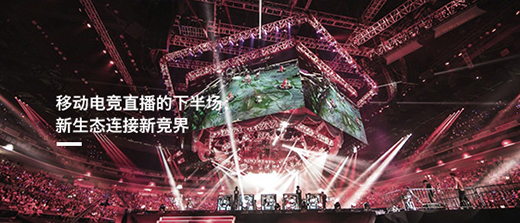
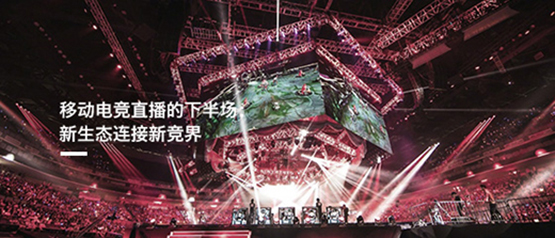
zhubobook

diff --git a/public/css/style.min.css b/public/css/style.min.css
@@ -2,4 +2,4 @@
  * authors: chenfx (since1991_vip@163.com)
  * date:    2017-11-18 18:18:18
  * version: v1.0.0
- */html,button,input,select,textarea{color:#000}body{background:#fff}:link,:visited{color:#ff4a00;text-decoration:none}a:hover,a:active{text-decoration:underline}::-moz-selection{background:#b3d4fc;text-shadow:none}::selection{background:#b3d4fc;text-shadow:none}hr{display:block;height:1px;border:0;border-top:1px solid #ccc;margin:1em 0;padding:0}article,aside,details,figcaption,figure,footer,header,hgroup,main,nav,section,summary{display:block}audio,canvas,video{display:inline-block;*display:inline;*zoom:1}audio:not([controls]){display:none;height:0}[hidden]{display:none}html{font-size:100%;-ms-text-size-adjust:100%;-webkit-text-size-adjust:100%}html,button,input,select,textarea{font-family:sans-serif}body{margin:0}a:focus{outline:thin dotted}a:active,a:hover{outline:0}h1{font-size:2em;margin:0.67em 0}h2{font-size:1.5em;margin:0.83em 0}h3{font-size:1.17em;margin:1em 0}h4{font-size:1em;margin:1.33em 0}h5{font-size:0.83em;margin:1.67em 0}h6{font-size:0.67em;margin:2.33em 0}abbr[title]{border-bottom:1px dotted}b,strong{font-weight:bold}blockquote{margin:1em 40px}dfn{font-style:italic}hr{-webkit-box-sizing:content-box;box-sizing:content-box;height:0}mark{background:#ff0;color:#000}p,pre{margin:1em 0}code,kbd,pre,samp{font-family:monospace, serif;_font-family:'courier new', monospace;font-size:1em}pre{white-space:pre;white-space:pre-wrap;word-wrap:break-word}q{quotes:none}q:before,q:after{content:'';content:none}small{font-size:80%}sub,sup{font-size:75%;line-height:0;position:relative;vertical-align:baseline}sup{top:-0.5em}sub{bottom:-0.25em}dl,menu,ol,ul{margin:1em 0}dd{margin:0 0 0 40px}menu,ol,ul{padding:0 0 0 40px}nav ul,nav ol{list-style:none;list-style-image:none}img{border:0;-ms-interpolation-mode:bicubic}svg:not(:root){overflow:hidden;_zoom:1}figure{margin:0}form{margin:0}fieldset{border:1px solid #c0c0c0;margin:0 2px;padding:0.35em 0.625em 0.75em}legend{border:0;padding:0;white-space:normal;*margin-left:-7px}button,input,select,textarea{font-size:100%;margin:0;vertical-align:baseline;*vertical-align:middle}button,input{line-height:normal}button,select{text-transform:none}button,html input[type="button"],input[type="reset"],input[type="submit"]{-webkit-appearance:button;cursor:pointer;*overflow:visible}button[disabled],html input[disabled]{cursor:default}input[type="checkbox"],input[type="radio"]{-webkit-box-sizing:border-box;box-sizing:border-box;padding:0;*height:13px;*width:13px}input[type="search"]{-webkit-appearance:textfield;-webkit-box-sizing:content-box;box-sizing:content-box}input[type="search"]::-webkit-search-cancel-button,input[type="search"]::-webkit-search-decoration{-webkit-appearance:none}button::-moz-focus-inner,input::-moz-focus-inner{border:0;padding:0}textarea{overflow:auto;vertical-align:top}table{border-collapse:collapse;border-spacing:0}article,aside,details,figcaption,figure,footer,header,hgroup,main,nav,section,summary{display:block}audio,canvas,video{display:inline-block;*display:inline;*zoom:1}audio:not([controls]){display:none;height:0}[hidden]{display:none}html{font-size:100%;-ms-text-size-adjust:100%;-webkit-text-size-adjust:100%}html,button,input,select,textarea{font-family:sans-serif}body{margin:0}a:focus{outline:thin dotted}a:active,a:hover{outline:0}h1{font-size:2em;margin:0.67em 0}h2{font-size:1.5em;margin:0.83em 0}h3{font-size:1.17em;margin:1em 0}h4{font-size:1em;margin:1.33em 0}h5{font-size:0.83em;margin:1.67em 0}h6{font-size:0.67em;margin:2.33em 0}abbr[title]{border-bottom:1px dotted}b,strong{font-weight:bold}blockquote{margin:1em 40px}dfn{font-style:italic}hr{-webkit-box-sizing:content-box;box-sizing:content-box;height:0}mark{background:#ff0;color:#000}p,pre{margin:1em 0}code,kbd,pre,samp{font-family:monospace, serif;_font-family:'courier new', monospace;font-size:1em}pre{white-space:pre;white-space:pre-wrap;word-wrap:break-word}q{quotes:none}q:before,q:after{content:'';content:none}small{font-size:80%}sub,sup{font-size:75%;line-height:0;position:relative;vertical-align:baseline}sup{top:-0.5em}sub{bottom:-0.25em}dl,menu,ol,ul{margin:1em 0}dd{margin:0 0 0 40px}menu,ol,ul{padding:0 0 0 40px}nav ul,nav ol{list-style:none;list-style-image:none}img{border:0;-ms-interpolation-mode:bicubic}svg:not(:root){overflow:hidden;_zoom:1}figure{margin:0}form{margin:0}fieldset{border:1px solid #c0c0c0;margin:0 2px;padding:0.35em 0.625em 0.75em}legend{border:0;padding:0;white-space:normal;*margin-left:-7px}button,input,select,textarea{font-size:100%;margin:0;vertical-align:baseline;*vertical-align:middle}button,input{line-height:normal}button,select{text-transform:none}button,html input[type="button"],input[type="reset"],input[type="submit"]{-webkit-appearance:button;cursor:pointer;*overflow:visible}button[disabled],html input[disabled]{cursor:default}input[type="checkbox"],input[type="radio"]{-webkit-box-sizing:border-box;box-sizing:border-box;padding:0;*height:13px;*width:13px}input[type="search"]{-webkit-appearance:textfield;-webkit-box-sizing:content-box;box-sizing:content-box}input[type="search"]::-webkit-search-cancel-button,input[type="search"]::-webkit-search-decoration{-webkit-appearance:none}button::-moz-focus-inner,input::-moz-focus-inner{border:0;padding:0}textarea{overflow:auto;vertical-align:top}table{border-collapse:collapse;border-spacing:0}img{vertical-align:middle}textarea{resize:vertical}.ir{background-color:transparent;border:0;text-align:left;text-indent:-9999px;overflow:hidden;_zoom:1}.hide,.hidden{display:none}.clearfix:before,.clearfix:after{content:" ";display:table}.clearfix:after{clear:both}.clearfix{*zoom:1}.fade{opacity:0;filter:alpha(opacity=0)\9;-webkit-transition:opacity .15s linear;transition:opacity .15s linear}.fade.in{opacity:1;filter:alpha(opacity=100)\9}.modal-backdrop{position:fixed !important;_position:absolute;top:0;right:0;bottom:0;left:0;z-index:100;background-color:#000}.modal-backdrop.fade{opacity:0;filter:alpha(opacity=0)\9}.modal-backdrop,.modal-backdrop.fade.in{opacity:0.5;filter:alpha(opacity=50)\9}.modal{position:fixed !important;top:50%;left:50%;_position:absolute;_top:15%;_margin-top:0;z-index:102;width:660px;margin-left:-330px;margin-top:-300px;background-color:#fff;outline:none}.modal.fade{-webkit-transition:opacity .4s linear, top .4s ease-out;transition:opacity .4s linear, top .4s ease-out;top:-25%}.modal.fade.in{top:50%;_top:15%}.modal .close{position:absolute;top:14px;right:14px;width:30px;height:30px;line-height:30px;text-align:center;color:#666;cursor:pointer;-webkit-transition:all .2s;transition:all .2s;z-index:10;border-radius:15px}.modal .close:hover{color:#fff}.modal .close .iconfont{font-size:24px;font-weight:200;vertical-align:middle}.modal-hide{display:none}.modal-header,.modal-hd{position:relative;height:32px;padding:14px 20px;background-color:#ccc}.modal-header h3,.modal-header .title,.modal-hd h3,.modal-hd .title{margin:0;font-size:18px;font-weight:400;line-height:32px;color:#333}.modal-body,.modal-bd{position:relative;max-height:400px;padding:40px 60px}.modal-footer,.modal-ft{height:40px;padding:20px 0;border-top:1px solid #eee;text-align:center;background-color:#fff}.modal-footer .btn,.modal-ft .btn{margin:0 7px}.modal-alert{width:500px;margin-left:-250px}.modal-alert .modal-bd{padding:60px 60px 40px;text-align:center}.modal-alert .text{min-height:130px}.modal-alert h3,.modal-alert .title{margin:0;font-size:30px;font-weight:400;line-height:50px;color:#333}.modal-alert p{margin:0;font-size:18px;line-height:30px;color:#666}.modal-alert .actions .btn{margin:0 7px}*{-webkit-box-sizing:border-box;box-sizing:border-box}body{font:14px/1.5 "Helvetica Neue", Helvetica, Arial, "Microsoft Yahei", "Hiragino Sans GB", "Heiti SC", "WenQuanYi Micro Hei", sans-serif;color:#333;min-width:1170px;background:#f5f4f8;-webkit-font-smoothing:antialiased}.container{position:relative;width:1170px;margin:0 auto}.container:before{content:"";display:table}.container:after{clear:both}.container:before,.container:after{content:"";display:table}em,i{font-style:normal}li{list-style:none}img{border:0}a:hover{text-decoration:none}a:focus{outline:none}body,div,dl,dt,dd,ul,ol,li,h1,h2,h3,h4,h5,h6,pre,form,fieldset,input,textarea,p,blockquote,th,td{margin:0;padding:0}.sec-header{height:70px;background:#fff}.sec-header .header-logo{float:left;width:136px;height:35px;margin-top:17.5px}.sec-header .header-logo a{display:block;color:#333}.sec-header .header-nav{float:right}.sec-header .header-nav ul{padding:0 20px}.sec-header .header-nav li{position:relative;display:inline-block;*zoom:1;*display:inline;line-height:70px;vertical-align:middle;padding:0 20px}.sec-header .header-nav li a{color:#333;display:block}.sec-banner{height:500px;overflow:hidden;_zoom:1}.sec-banner .banner-container{text-align:center}.sec-banner .banner .banner-lf{position:absolute;top:76px;left:75px;text-align:left}.sec-banner .banner .banner-lf .date{font-size:48px;color:#f84b9c;font-weight:bold;text-align:left}.sec-banner .banner .banner-lf .month{font-size:24px;color:#fff;font-weight:bold;text-align:left}.sec-banner .banner .banner-lf .month em{display:inline-block;*zoom:1;*display:inline;width:12px;height:4px;background:#fff;text-align:left;font-weight:bold;vertical-align:middle;margin-left:15px}.sec-banner .banner .banner-lf .desc{margin-top:50px;font-size:16px;color:#fff}.sec-banner .banner .banner-lf .btn-primary{display:block;width:100px;height:38px;line-height:38px;padding:0 18px;margin-top:60px;color:#fff;white-space:nowrap;text-align:center;font-size:14px;border:none;border-radius:3px;cursor:pointer;background:#f84b9c;-webkit-box-shadow:0px 0px 13px rgba(248,75,156,0.3);box-shadow:0px 0px 13px rgba(248,75,156,0.3);-webkit-transition:all 0.4s cubic-bezier(0.215, 0.61, 0.355, 1) 0s;transition:all 0.4s cubic-bezier(0.215, 0.61, 0.355, 1) 0s}.sec-banner .banner .banner-lf .btn-primary:hover{background:#009688}.sec-banner .banner .banner-fr{position:absolute;top:140px;right:155px;text-align:right}.sec-banner .banner .banner-fr .name{font-size:60px;color:#fff}.sec-banner .banner .banner-fr .platform{font-size:16px;margin-top:5px;color:#fff}.sec-banner .banner .banner-fr .line{width:28px;height:7px;background:#fff;margin-top:20px;position:absolute;right:0}.sec-banner .banner .banner-fr .platform-en{margin-top:50px;font-size:16px;font-weight:bold;color:#fff}.sec-banner .banner .banner-fr .live{font-size:16px;font-weight:bold;color:#fff}.sec-banner .banner-2{background:#c69ca7}.sec-banner .banner-1{background:#f5aebe}.sec-container{margin-top:30px}.sec-container .content{position:relative}.sec-container .content .con{float:left}.sec-container .content .con-left,.sec-container .content .con-right{width:305px}.sec-container .content .con-middle{width:520px;margin:0 20px}.sec-container .content .in-title{position:relative}.sec-container .content .in-title h4{font-weight:normal;font-size:16px;line-height:30px;color:#f84b9c}.sec-container .content .in-title .line{display:block;width:28px;height:1px;border-bottom:3px solid #f84b9c}.sec-container .content .con-menu{margin-top:20px}.sec-container .content .con-menu .menu-item{margin-bottom:15px}.sec-container .content .con-menu .module-card{position:relative;border-radius:3px;background:#fff;font-size:14px;padding:15px;line-height:18px;cursor:pointer;-webkit-transition:all 0.6s cubic-bezier(0.215, 0.61, 0.355, 1) 0s;transition:all 0.6s cubic-bezier(0.215, 0.61, 0.355, 1) 0s;-webkit-box-shadow:0px 0px 13px rgba(223,221,230,0.3);box-shadow:0px 0px 13px rgba(223,221,230,0.3)}.sec-container .content .con-menu .module-card a{color:#333;-webkit-transition:all 0.4s cubic-bezier(0.215, 0.61, 0.355, 1) 0s;transition:all 0.4s cubic-bezier(0.215, 0.61, 0.355, 1) 0s}.sec-container .content .con-menu .module-card:hover a{color:#f84b9c}.sec-container .content .con-middle .in-banner{height:223px}.sec-container .content .con-middle .in-tag{margin-top:10px}.sec-container .content .con-middle .in-tag .ul-tag{position:relative;height:40px;white-space:nowrap;-webkit-transition:all 0.2s;transition:all 0.2s}.sec-container .content .con-middle .in-tag .ul-tag li{float:left;vertical-align:middle;font-size:14px;-webkit-transition:all 0.2s;transition:all 0.2s;position:relative;line-height:40px;min-width:65px;padding:0 15px;text-align:center;cursor:pointer;color:#797979}.sec-container .content .con-middle .in-tag .ul-tag li.tag-this{color:#f84b9c}.sec-container .content .con-middle .in-tag .ul-tag .tag-this:after{position:absolute;left:0;top:0;content:'';width:100%;height:41px;pointer-events:none;-webkit-box-sizing:border-box;box-sizing:border-box;border:none;border-radius:0;border-bottom:2px solid #f84b9c}.sec-container .content .con-middle .tag-content{margin:10px 0}.sec-container .content .con-middle .tag-content .tag-item{display:none}.sec-container .content .con-middle .tag-content .tag-show{display:block}.sec-container .content .con-middle .tag-content .ul-con{margin-top:10px}.sec-container .content .con-middle .tag-content .ul-con li{margin-bottom:15px;background:#fff}.sec-container .content .con-middle .tag-content .ul-con .module-card{position:relative;padding:15px;border-radius:3px;background:#fff;-webkit-transition:all 0.6s cubic-bezier(0.215, 0.61, 0.355, 1) 0s;transition:all 0.6s cubic-bezier(0.215, 0.61, 0.355, 1) 0s;-webkit-box-shadow:0px 0px 13px rgba(223,221,230,0.3);box-shadow:0px 0px 13px rgba(223,221,230,0.3)}.sec-container .content .con-middle .tag-content .ul-con h4{font-weight:normal}.sec-container .content .con-middle .tag-content .ul-con h4 a{color:#333;-webkit-transition:all 0.4s cubic-bezier(0.215, 0.61, 0.355, 1) 0s;transition:all 0.4s cubic-bezier(0.215, 0.61, 0.355, 1) 0s}.sec-container .content .con-middle .tag-content .ul-con h4 a:hover{color:#f84b9c}.sec-container .content .con-middle .tag-content .ul-con .in-news-list{margin-top:15px}.sec-container .content .con-middle .tag-content .ul-con .news-img{display:inline-block;*zoom:1;*display:inline;width:200px;margin-right:10px;vertical-align:top}.sec-container .content .con-middle .tag-content .ul-con .news-img img{display:inline-block;*zoom:1;*display:inline}.sec-container .content .con-middle .tag-content .ul-con .news-con{display:inline-block;*zoom:1;*display:inline;position:relative;width:270px;height:110px;font-size:14px;color:#5e5c65;line-height:24px}.sec-container .content .con-middle .tag-content .ul-con .news-time{position:absolute;left:0;bottom:5px;font-size:12px;color:#979797;line-height:0}.sec-container .content .con-middle .tag-content .ul-con .news-time span{margin-right:10px}.sec-container .content .con-middle .tag-content .ul-con .btn-primary{position:absolute;right:0;bottom:5px;font-size:14px;color:#f84b9c;line-height:0;-webkit-transition:all 0.4s cubic-bezier(0.215, 0.61, 0.355, 1) 0s;transition:all 0.4s cubic-bezier(0.215, 0.61, 0.355, 1) 0s}.sec-container .content .con-middle .tag-content .ul-con .btn-primary:hover{color:#009688}
+ */html,button,input,select,textarea{color:#000}body{background:#fff}:link,:visited{color:#ff4a00;text-decoration:none}a:hover,a:active{text-decoration:underline}::-moz-selection{background:#b3d4fc;text-shadow:none}::selection{background:#b3d4fc;text-shadow:none}hr{display:block;height:1px;border:0;border-top:1px solid #ccc;margin:1em 0;padding:0}article,aside,details,figcaption,figure,footer,header,hgroup,main,nav,section,summary{display:block}audio,canvas,video{display:inline-block;*display:inline;*zoom:1}audio:not([controls]){display:none;height:0}[hidden]{display:none}html{font-size:100%;-ms-text-size-adjust:100%;-webkit-text-size-adjust:100%}html,button,input,select,textarea{font-family:sans-serif}body{margin:0}a:focus{outline:thin dotted}a:active,a:hover{outline:0}h1{font-size:2em;margin:0.67em 0}h2{font-size:1.5em;margin:0.83em 0}h3{font-size:1.17em;margin:1em 0}h4{font-size:1em;margin:1.33em 0}h5{font-size:0.83em;margin:1.67em 0}h6{font-size:0.67em;margin:2.33em 0}abbr[title]{border-bottom:1px dotted}b,strong{font-weight:bold}blockquote{margin:1em 40px}dfn{font-style:italic}hr{-webkit-box-sizing:content-box;box-sizing:content-box;height:0}mark{background:#ff0;color:#000}p,pre{margin:1em 0}code,kbd,pre,samp{font-family:monospace, serif;_font-family:'courier new', monospace;font-size:1em}pre{white-space:pre;white-space:pre-wrap;word-wrap:break-word}q{quotes:none}q:before,q:after{content:'';content:none}small{font-size:80%}sub,sup{font-size:75%;line-height:0;position:relative;vertical-align:baseline}sup{top:-0.5em}sub{bottom:-0.25em}dl,menu,ol,ul{margin:1em 0}dd{margin:0 0 0 40px}menu,ol,ul{padding:0 0 0 40px}nav ul,nav ol{list-style:none;list-style-image:none}img{border:0;-ms-interpolation-mode:bicubic}svg:not(:root){overflow:hidden;_zoom:1}figure{margin:0}form{margin:0}fieldset{border:1px solid #c0c0c0;margin:0 2px;padding:0.35em 0.625em 0.75em}legend{border:0;padding:0;white-space:normal;*margin-left:-7px}button,input,select,textarea{font-size:100%;margin:0;vertical-align:baseline;*vertical-align:middle}button,input{line-height:normal}button,select{text-transform:none}button,html input[type="button"],input[type="reset"],input[type="submit"]{-webkit-appearance:button;cursor:pointer;*overflow:visible}button[disabled],html input[disabled]{cursor:default}input[type="checkbox"],input[type="radio"]{-webkit-box-sizing:border-box;box-sizing:border-box;padding:0;*height:13px;*width:13px}input[type="search"]{-webkit-appearance:textfield;-webkit-box-sizing:content-box;box-sizing:content-box}input[type="search"]::-webkit-search-cancel-button,input[type="search"]::-webkit-search-decoration{-webkit-appearance:none}button::-moz-focus-inner,input::-moz-focus-inner{border:0;padding:0}textarea{overflow:auto;vertical-align:top}table{border-collapse:collapse;border-spacing:0}article,aside,details,figcaption,figure,footer,header,hgroup,main,nav,section,summary{display:block}audio,canvas,video{display:inline-block;*display:inline;*zoom:1}audio:not([controls]){display:none;height:0}[hidden]{display:none}html{font-size:100%;-ms-text-size-adjust:100%;-webkit-text-size-adjust:100%}html,button,input,select,textarea{font-family:sans-serif}body{margin:0}a:focus{outline:thin dotted}a:active,a:hover{outline:0}h1{font-size:2em;margin:0.67em 0}h2{font-size:1.5em;margin:0.83em 0}h3{font-size:1.17em;margin:1em 0}h4{font-size:1em;margin:1.33em 0}h5{font-size:0.83em;margin:1.67em 0}h6{font-size:0.67em;margin:2.33em 0}abbr[title]{border-bottom:1px dotted}b,strong{font-weight:bold}blockquote{margin:1em 40px}dfn{font-style:italic}hr{-webkit-box-sizing:content-box;box-sizing:content-box;height:0}mark{background:#ff0;color:#000}p,pre{margin:1em 0}code,kbd,pre,samp{font-family:monospace, serif;_font-family:'courier new', monospace;font-size:1em}pre{white-space:pre;white-space:pre-wrap;word-wrap:break-word}q{quotes:none}q:before,q:after{content:'';content:none}small{font-size:80%}sub,sup{font-size:75%;line-height:0;position:relative;vertical-align:baseline}sup{top:-0.5em}sub{bottom:-0.25em}dl,menu,ol,ul{margin:1em 0}dd{margin:0 0 0 40px}menu,ol,ul{padding:0 0 0 40px}nav ul,nav ol{list-style:none;list-style-image:none}img{border:0;-ms-interpolation-mode:bicubic}svg:not(:root){overflow:hidden;_zoom:1}figure{margin:0}form{margin:0}fieldset{border:1px solid #c0c0c0;margin:0 2px;padding:0.35em 0.625em 0.75em}legend{border:0;padding:0;white-space:normal;*margin-left:-7px}button,input,select,textarea{font-size:100%;margin:0;vertical-align:baseline;*vertical-align:middle}button,input{line-height:normal}button,select{text-transform:none}button,html input[type="button"],input[type="reset"],input[type="submit"]{-webkit-appearance:button;cursor:pointer;*overflow:visible}button[disabled],html input[disabled]{cursor:default}input[type="checkbox"],input[type="radio"]{-webkit-box-sizing:border-box;box-sizing:border-box;padding:0;*height:13px;*width:13px}input[type="search"]{-webkit-appearance:textfield;-webkit-box-sizing:content-box;box-sizing:content-box}input[type="search"]::-webkit-search-cancel-button,input[type="search"]::-webkit-search-decoration{-webkit-appearance:none}button::-moz-focus-inner,input::-moz-focus-inner{border:0;padding:0}textarea{overflow:auto;vertical-align:top}table{border-collapse:collapse;border-spacing:0}img{vertical-align:middle}textarea{resize:vertical}.ir{background-color:transparent;border:0;text-align:left;text-indent:-9999px;overflow:hidden;_zoom:1}.hide,.hidden{display:none}.clearfix:before,.clearfix:after{content:" ";display:table}.clearfix:after{clear:both}.clearfix{*zoom:1}.fade{opacity:0;filter:alpha(opacity=0)\9;-webkit-transition:opacity .15s linear;transition:opacity .15s linear}.fade.in{opacity:1;filter:alpha(opacity=100)\9}.modal-backdrop{position:fixed !important;_position:absolute;top:0;right:0;bottom:0;left:0;z-index:100;background-color:#000}.modal-backdrop.fade{opacity:0;filter:alpha(opacity=0)\9}.modal-backdrop,.modal-backdrop.fade.in{opacity:0.5;filter:alpha(opacity=50)\9}.modal{position:fixed !important;top:50%;left:50%;_position:absolute;_top:15%;_margin-top:0;z-index:102;width:660px;margin-left:-330px;margin-top:-300px;background-color:#fff;outline:none}.modal.fade{-webkit-transition:opacity .4s linear, top .4s ease-out;transition:opacity .4s linear, top .4s ease-out;top:-25%}.modal.fade.in{top:50%;_top:15%}.modal .close{position:absolute;top:14px;right:14px;width:30px;height:30px;line-height:30px;text-align:center;color:#666;cursor:pointer;-webkit-transition:all .2s;transition:all .2s;z-index:10;border-radius:15px}.modal .close:hover{color:#fff}.modal .close .iconfont{font-size:24px;font-weight:200;vertical-align:middle}.modal-hide{display:none}.modal-header,.modal-hd{position:relative;height:32px;padding:14px 20px;background-color:#ccc}.modal-header h3,.modal-header .title,.modal-hd h3,.modal-hd .title{margin:0;font-size:18px;font-weight:400;line-height:32px;color:#333}.modal-body,.modal-bd{position:relative;max-height:400px;padding:40px 60px}.modal-footer,.modal-ft{height:40px;padding:20px 0;border-top:1px solid #eee;text-align:center;background-color:#fff}.modal-footer .btn,.modal-ft .btn{margin:0 7px}.modal-alert{width:500px;margin-left:-250px}.modal-alert .modal-bd{padding:60px 60px 40px;text-align:center}.modal-alert .text{min-height:130px}.modal-alert h3,.modal-alert .title{margin:0;font-size:30px;font-weight:400;line-height:50px;color:#333}.modal-alert p{margin:0;font-size:18px;line-height:30px;color:#666}.modal-alert .actions .btn{margin:0 7px}*{-webkit-box-sizing:border-box;box-sizing:border-box}body{font:14px/1.5 "Helvetica Neue", Helvetica, Arial, "Microsoft Yahei", "Hiragino Sans GB", "Heiti SC", "WenQuanYi Micro Hei", sans-serif;color:#333;min-width:1170px;background:#f5f4f8;-webkit-font-smoothing:antialiased}.container{position:relative;width:1170px;margin:0 auto}.container:before{content:"";display:table}.container:after{clear:both}.container:before,.container:after{content:"";display:table}em,i{font-style:normal}li{list-style:none}img{border:0}a:hover{text-decoration:none}a:focus{outline:none}body,div,dl,dt,dd,ul,ol,li,h1,h2,h3,h4,h5,h6,pre,form,fieldset,input,textarea,p,blockquote,th,td{margin:0;padding:0}.sec-header{height:70px;background:#fff}.sec-header .header-logo{float:left;width:136px;height:35px;margin-top:17.5px}.sec-header .header-logo a{display:block;color:#333}.sec-header .header-nav{float:right}.sec-header .header-nav ul{padding:0 20px}.sec-header .header-nav li{position:relative;display:inline-block;*zoom:1;*display:inline;line-height:70px;vertical-align:middle;padding:0 20px}.sec-header .header-nav li a{color:#333;display:block}.sec-banner{height:500px;overflow:hidden;_zoom:1}.sec-banner .banner-container{text-align:center}.sec-banner .banner .banner-lf{position:absolute;top:76px;left:75px;text-align:left}.sec-banner .banner .banner-lf .date{font-size:48px;color:#f84b9c;font-weight:bold;text-align:left}.sec-banner .banner .banner-lf .month{font-size:24px;color:#fff;font-weight:bold;text-align:left}.sec-banner .banner .banner-lf .month em{display:inline-block;*zoom:1;*display:inline;width:12px;height:4px;background:#fff;text-align:left;font-weight:bold;vertical-align:middle;margin-left:15px}.sec-banner .banner .banner-lf .desc{margin-top:50px;font-size:16px;color:#fff}.sec-banner .banner .banner-lf .btn-primary{display:block;width:100px;height:38px;line-height:38px;padding:0 18px;margin-top:60px;color:#fff;white-space:nowrap;text-align:center;font-size:14px;border:none;border-radius:3px;cursor:pointer;background:#f84b9c;-webkit-box-shadow:0px 0px 13px rgba(248,75,156,0.3);box-shadow:0px 0px 13px rgba(248,75,156,0.3);-webkit-transition:all 0.4s cubic-bezier(0.215, 0.61, 0.355, 1) 0s;transition:all 0.4s cubic-bezier(0.215, 0.61, 0.355, 1) 0s}.sec-banner .banner .banner-lf .btn-primary:hover{background:#009688}.sec-banner .banner .banner-fr{position:absolute;top:140px;right:155px;text-align:right}.sec-banner .banner .banner-fr .name{font-size:60px;color:#fff}.sec-banner .banner .banner-fr .platform{font-size:16px;margin-top:5px;color:#fff}.sec-banner .banner .banner-fr .line{width:28px;height:7px;background:#fff;margin-top:20px;position:absolute;right:0}.sec-banner .banner .banner-fr .platform-en{margin-top:50px;font-size:16px;font-weight:bold;color:#fff}.sec-banner .banner .banner-fr .live{font-size:16px;font-weight:bold;color:#fff}.sec-banner .banner-2{background:#c69ca7}.sec-banner .banner-1{background:#f5aebe}.sec-container{margin-top:30px}.sec-container .content{position:relative}.sec-container .content .con{float:left}.sec-container .content .con-left{width:305px}.sec-container .content .con-right{width:270px}.sec-container .content .con-middle{width:555px;margin:0 20px}.sec-container .content .in-title{position:relative}.sec-container .content .in-title h4{font-weight:normal;font-size:16px;line-height:30px;color:#f84b9c}.sec-container .content .in-title .line{display:block;width:28px;height:1px;border-bottom:3px solid #f84b9c}.sec-container .content .con-menu{margin-top:20px}.sec-container .content .con-menu .menu-item{margin-bottom:15px}.sec-container .content .con-menu .module-card{position:relative;border-radius:3px;background:#fff;font-size:14px;padding:15px;line-height:18px;cursor:pointer;-webkit-transition:all 0.6s cubic-bezier(0.215, 0.61, 0.355, 1) 0s;transition:all 0.6s cubic-bezier(0.215, 0.61, 0.355, 1) 0s;-webkit-box-shadow:0px 0px 13px rgba(223,221,230,0.3);box-shadow:0px 0px 13px rgba(223,221,230,0.3)}.sec-container .content .con-menu .module-card a{color:#333;-webkit-transition:all 0.4s cubic-bezier(0.215, 0.61, 0.355, 1) 0s;transition:all 0.4s cubic-bezier(0.215, 0.61, 0.355, 1) 0s}.sec-container .content .con-menu .module-card:hover a{color:#f84b9c}.sec-container .content .con-middle .in-banner{height:238px}.sec-container .content .con-middle .in-tag{margin-top:10px}.sec-container .content .con-middle .in-tag .ul-tag{position:relative;height:40px;white-space:nowrap;-webkit-transition:all 0.2s;transition:all 0.2s}.sec-container .content .con-middle .in-tag .ul-tag li{float:left;vertical-align:middle;font-size:14px;-webkit-transition:all 0.2s;transition:all 0.2s;position:relative;line-height:40px;min-width:65px;padding:0 15px;text-align:center;cursor:pointer;color:#797979}.sec-container .content .con-middle .in-tag .ul-tag li.tag-this{color:#f84b9c}.sec-container .content .con-middle .in-tag .ul-tag .tag-this:after{position:absolute;left:0;top:0;content:'';width:100%;height:41px;pointer-events:none;-webkit-box-sizing:border-box;box-sizing:border-box;border:none;border-radius:0;border-bottom:2px solid #f84b9c}.sec-container .content .con-middle .tag-content{margin:10px 0}.sec-container .content .con-middle .tag-content .tag-item{display:none}.sec-container .content .con-middle .tag-content .tag-show{display:block}.sec-container .content .con-middle .tag-content .ul-con{margin-top:10px}.sec-container .content .con-middle .tag-content .ul-con li{margin-bottom:15px;background:#fff}.sec-container .content .con-middle .tag-content .ul-con .module-card{position:relative;padding:15px;border-radius:3px;background:#fff;-webkit-transition:all 0.6s cubic-bezier(0.215, 0.61, 0.355, 1) 0s;transition:all 0.6s cubic-bezier(0.215, 0.61, 0.355, 1) 0s;-webkit-box-shadow:0px 0px 13px rgba(223,221,230,0.3);box-shadow:0px 0px 13px rgba(223,221,230,0.3)}.sec-container .content .con-middle .tag-content .ul-con h4{font-weight:normal}.sec-container .content .con-middle .tag-content .ul-con h4 a{color:#333;-webkit-transition:all 0.4s cubic-bezier(0.215, 0.61, 0.355, 1) 0s;transition:all 0.4s cubic-bezier(0.215, 0.61, 0.355, 1) 0s}.sec-container .content .con-middle .tag-content .ul-con h4 a:hover{color:#f84b9c}.sec-container .content .con-middle .tag-content .ul-con .in-news-list{margin-top:15px}.sec-container .content .con-middle .tag-content .ul-con .news-img{display:inline-block;*zoom:1;*display:inline;width:200px;margin-right:10px;vertical-align:top}.sec-container .content .con-middle .tag-content .ul-con .news-img img{display:inline-block;*zoom:1;*display:inline}.sec-container .content .con-middle .tag-content .ul-con .news-con{display:inline-block;*zoom:1;*display:inline;position:relative;width:270px;height:110px;font-size:14px;color:#5e5c65;line-height:24px}.sec-container .content .con-middle .tag-content .ul-con .news-con .desc{height:72px;display:-webkit-box;-webkit-box-orient:vertical;-webkit-line-clamp:3;overflow:hidden;_zoom:1}.sec-container .content .con-middle .tag-content .ul-con .news-time{position:absolute;left:0;bottom:5px;font-size:12px;color:#979797;line-height:0}.sec-container .content .con-middle .tag-content .ul-con .news-time span{margin-right:10px}.sec-container .content .con-middle .tag-content .ul-con .btn-primary{position:absolute;right:0;bottom:5px;font-size:14px;color:#f84b9c;line-height:0;-webkit-transition:all 0.4s cubic-bezier(0.215, 0.61, 0.355, 1) 0s;transition:all 0.4s cubic-bezier(0.215, 0.61, 0.355, 1) 0s}.sec-container .content .con-middle .tag-content .ul-con .btn-primary:hover{color:#009688}.sec-container .content .con-right{overflow:hidden;_zoom:1}.sec-container .content .con-right .in-menu{margin-bottom:20px}.sec-container .content .con-right .in-btn-group{width:100%;display:inline-block;*zoom:1;*display:inline;vertical-align:middle;font-size:0}.sec-container .content .con-right .in-btn-group .zb-btn{display:inline-block;*zoom:1;*display:inline;width:50%;height:38px;line-height:38px;text-align:center;font-size:12px;color:#fff;background:#f84b9c;border-radius:0 2px 2px 0;border-left:1px solid rgba(255,255,255,0.5);-webkit-transition:all 0.4s cubic-bezier(0.215, 0.61, 0.355, 1) 0s;transition:all 0.4s cubic-bezier(0.215, 0.61, 0.355, 1) 0s;-webkit-box-shadow:0px 0px 13px rgba(248,75,156,0.3);box-shadow:0px 0px 13px rgba(248,75,156,0.3)}.sec-container .content .con-right .in-btn-group .zb-btn:first-child{border-left:none;border-radius:2px 0 0 2px}.sec-container .content .con-right .in-btn-group .zb-btn:hover{background:#009688}.sec-container .content .con-right .in-title{position:relative}.sec-container .content .con-right .in-title h4{font-weight:normal;font-size:16px;line-height:30px;color:#f84b9c}.sec-container .content .con-right .in-title .line{display:block;width:28px;height:1px;border-bottom:3px solid #f84b9c}.sec-container .content .con-right .in-interview{margin-top:20px;width:100%}.sec-container .content .con-right .in-interview a{display:block}.sec-container .content .con-right .in-interview-con{margin:20px 0;font-size:14px;line-height:24px}.sec-container .content .con-right .in-promo-list .in-avding{text-align:center;margin-bottom:20px}

diff --git a/views/index.html b/views/index.html
@@ -8,7 +8,7 @@
     <meta name="description" content="主播百科是一部为喜欢看直播和喜欢做主播的用户所提供的百科全书，旨在创造一个国内互联网内最专业的主播平台。">
     <meta name="keywords" content="主播百科,网络,斗鱼,熊猫,战旗,虎牙,YY,主播,直播,直播间">
     <link rel="shortcut icon" href="/common/img/favicon.jpg" type="image/x-icon">
-    <link rel="stylesheet" href="../public/css/style.min.css?v=b845b1f">
+    <link rel="stylesheet" href="../public/css/style.min.css?v=d6262f6">
 </head>
 
 <body id="bd">
@@ -88,7 +88,7 @@
                         <div class="in-banner-img-box">
                             <div class="in-banner-img">
                                 <a href="index.html">
-                                    <img data-src="../public/img/2017-11-20-011317704.jpg?v=3c6d966" alt="移动电竞直播的下半场：新生态连接新竞界">
+                                    <img data-src="../public/img/2017-11-20-011317704.jpg?v=c036e3f" alt="移动电竞直播的下半场：新生态连接新竞界">
                                 </a>
                             </div>
                         </div>
@@ -115,7 +115,7 @@
                                                     <img data-src="../public/img/2017-11-20-0549402241.jpg?v=9b019ce" alt="斗鱼宣布获得D轮融资 招银国际领投">
                                                 </div>
                                                 <div class="news-con">
-                                                    <p class="desc">近日，斗鱼直播宣布已经于2017年上半年完成D轮融资，成为国内第一家迈入D轮的网络直播平台。此次融资由招银国际...</p>
+                                                    <p class="desc">近日，斗鱼直播宣布已经于2017年上半年完成D轮融资，成为国内第一家迈入D轮的网络直播平台。此次融资由招银国际。近日，斗鱼直播宣布已经于2017年上半年完成D轮融资，成为国内第一家迈入D轮的网络直播平台。</p>
                                                     <div class="news-time">
                                                         <span class="date">2017年11月20日</span>
                                                         <span class="industry">行业新闻</span>
@@ -135,7 +135,7 @@
                                                     <img data-src="../public/img/2017-11-20-0549402241.jpg?v=9b019ce" alt="斗鱼宣布获得D轮融资 招银国际领投">
                                                 </div>
                                                 <div class="news-con">
-                                                    <p class="desc">近日，斗鱼直播宣布已经于2017年上半年完成D轮融资，成为国内第一家迈入D轮的网络直播平台。此次融资由招银国际...</p>
+                                                    <p class="desc">想成为万人瞩目的明星吗？想轻松月入百万吗？只要你有设备手机or电脑都可，开通你自己的直播间，坐在家中就可以将一。近日，斗鱼直播宣布已经于2017年上半年完成D轮融资，成为国内第一家迈入D轮的网络直播平台。此次融资由招银国际。近日，斗鱼直播宣布已经于2017年上半年完成D轮融资，成为国内第一家迈入D轮的网络直播平台。</p>
                                                     <div class="news-time">
                                                         <span class="date">2017年11月20日</span>
                                                         <span class="industry">行业新闻</span>
@@ -153,7 +153,38 @@
                         </div>
                     </div>
                 </div>
-                <div class="con con-right">34234</div>
+                <div class="con con-right">
+                    <div class="in-menu">
+                        <div class="in-btn-group">
+                            <a href="index.html" class="btn btn-primary zb-btn">添加主播</a>
+                            <a href="index.html" class="btn btn-primary zb-btn">文章投稿</a>
+                        </div>
+                    </div>
+                    <div class="in-title">
+                        <h4>主播专访</h4>
+                        <span class="line"></span>
+                    </div>
+                    <div class="in-interview">
+                        <div class="in-interview-img">
+                            <a href="index.html">
+                                <img data-src="../public/img/2017-09-25-1145087510.jpg?v=2d63d38" alt="">
+                            </a>
+                        </div>
+                        <div class="in-interview-con">从花椒转战一直播短短4个月时间里，坐拥194万粉丝，连续拿下“时尚盛典”、“微博红人主播”、“The Sing...</div>
+                    </div>
+                    <div class="in-promo-list">
+                        <div class="in-avding">
+                            <a href="index.html">
+                                <img data-src="../public/img/img_05.jpg?v=9d91ce0" alt="">
+                            </a>
+                        </div>
+                        <div class="in-avding">
+                            <a href="index.html">
+                                <img data-src="../public/img/img_06.jpg?v=9d5ce3a" alt="">
+                            </a>
+                        </div>
+                    </div>
+                </div>
             </div>
         </div>
     </div>

diff --git a/common/scss/style.scss b/common/scss/style.scss
@@ -285,12 +285,14 @@ td {
         .con {
             @include fl;
         }
-        .con-left,
-        .con-right {
+        .con-left {
             width: 305px;
         }
+        .con-right {
+            width: 270px;
+        }
         .con-middle {
-            width: 560px - 20px - 20px;
+            width: 560px - 20px - 20px + 35px;
             margin: 0 20px;
         }
         .in-title {
@@ -336,7 +338,7 @@ td {
         }
         .con-middle {
             .in-banner {
-                height: 223px;
+                height: 238px;
             }
             .in-tag {
                 margin-top: 10px;
@@ -430,6 +432,13 @@ td {
                         font-size: 14px;
                         color: #5e5c65;
                         line-height: 24px;
+                        .desc {
+                            height: 72px;
+                            display: -webkit-box;
+                            -webkit-box-orient: vertical;
+                            -webkit-line-clamp: 3;
+                            overflow: hidden;
+                        }
                     }
                     .news-time {
                         @include abs;
@@ -454,6 +463,75 @@ td {
                             color: #009688;
                         }
                     }
+                }
+            }
+        }
+        .con-right {
+            overflow: hidden;
+            .in-menu {
+                margin-bottom: 20px;
+            }
+            .in-btn-group {
+                width: 100%;
+                display: inline-block;
+                vertical-align: middle;
+                font-size: 0;
+                .zb-btn {
+                    display: inline-block;
+                    width: 50%;
+                    height: 38px;
+                    line-height: 38px;
+                    text-align: center;
+                    font-size: 12px;
+                    color: #fff;
+                    background: #f84b9c;
+                    border-radius: 0 2px 2px 0;
+                    border-left: 1px solid rgba(255, 255, 255, .5);
+                    @include transition(all 0.4s cubic-bezier(0.215, 0.61, 0.355, 1) 0s);
+                    @include box_shodow(0px 0px 13px rgba(248, 75, 156, 0.3));
+                    &:first-child {
+                        border-left: none;
+                        border-radius: 2px 0 0 2px;
+                    }
+                    &:hover {
+                        background: #009688;
+                    }
+                }
+            }
+            .in-title {
+                @include pos;
+                h4 {
+                    font-weight: normal;
+                    font-size: 16px;
+                    line-height: 30px;
+                    color: #f84b9c;
+                }
+                .line {
+                    display: block;
+                    width: 28px;
+                    height: 1px;
+                    border-bottom: 3px solid #f84b9c;
+                }
+            }
+            .in-interview {
+                margin-top: 20px;
+                width: 100%;
+                .in-interview-img {
+                    // height: 176px;
+                }
+                a {
+                    display: block;
+                }
+            }
+            .in-interview-con {
+                margin: 20px 0;
+                font-size: 14px;
+                line-height: 24px;
+            }
+            .in-promo-list {
+                .in-avding {
+                    text-align: center;
+                    margin-bottom: 20px;
                 }
             }
         }
